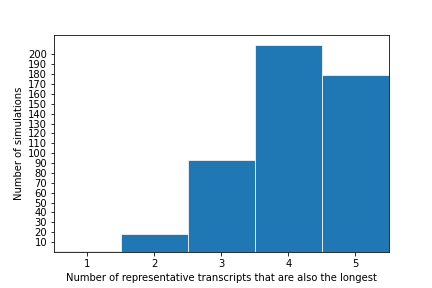
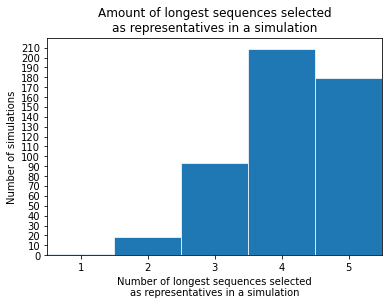
Change labels and add titles to plots

Changed region(s): [[0.0, 0.0, 0.9871, 1.0]]

diff --git a/testing/plot.py b/testing/plot.py
@@ -263,8 +263,8 @@ def main():
     simulationDirectory = "small"
     
     x = [1,2,3,4,5]
-    # y = gatherRepresentativeIsLongestData(simulationDirectory)
-    y = getRepLongestLengthDifferenceAverage(simulationDirectory)
+    y = gatherRepresentativeIsLongestData(simulationDirectory)
+    # y = getRepLongestLengthDifferenceAverage(simulationDirectory)
     # y = getAverageScoreDifference(simulationDirectory)
     print(y)
     
@@ -273,13 +273,17 @@ def main():
     ax.bar(x, y, width=1, edgecolor="white", linewidth=0.7)
     
     ax.set(xlim=(0.5,5.5), xticks=list(range(1,6)),
-            # ylim=(0,220), yticks=np.arange(10,200,10))
-            ylim=(0,200), yticks=np.arange(0,200,10))
+            ylim=(0,220), yticks=np.arange(0,220,10))
+            # ylim=(0,200), yticks=np.arange(0,200,10))
+            # ylim=(0,9500), yticks=np.arange(0,9100,1000))
     
-    plt.xlabel("Number of representative sequences that are also the longest")
-    # plt.ylabel("Number of simulations")
-    plt.ylabel("Number of symbols")
-    # plt.ylabel("Points")
+    plt.title('Amount of longest sequences selected\nas representatives in a simulation')
+    # plt.title('Average difference in length\nbetween representatives and longest sequences')
+    # plt.title("Average difference in sum-of-pairs score\nbetween representatives and longest sequences")
+    plt.xlabel("Number of longest sequences selected\nas representatives in a simulation")
+    plt.ylabel("Number of simulations")
+    # plt.ylabel("Difference in number of symbols")
+    # plt.ylabel("Difference in points")
     
     # plt.savefig("plot1.png")
     plt.show()
